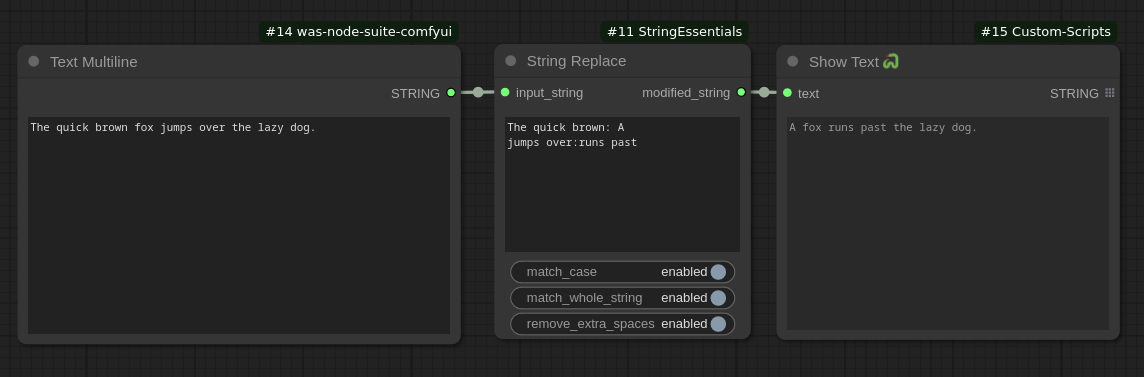
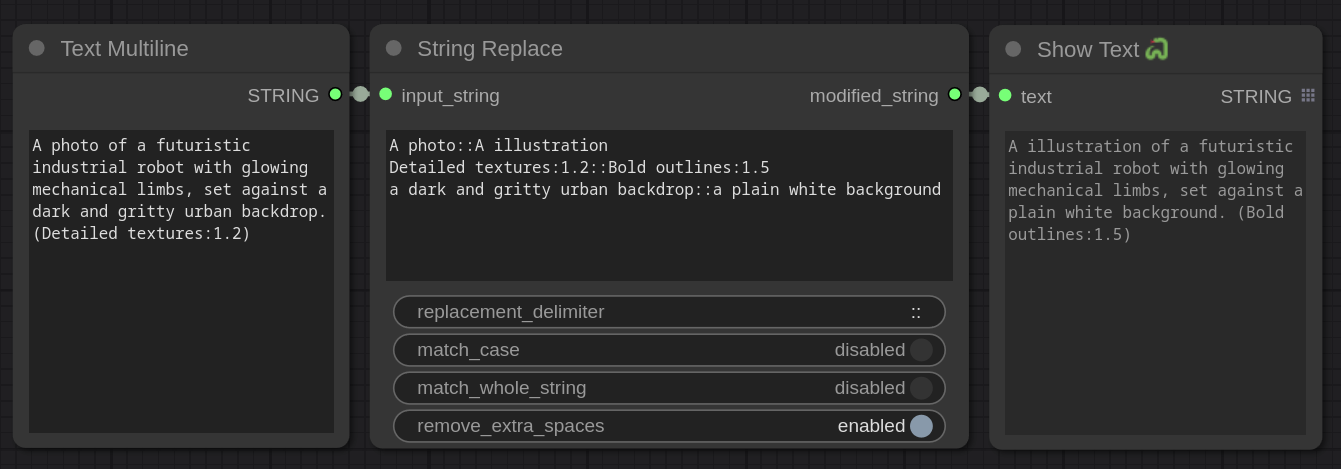
Minor updates including a custom replacement_delimiter

diff --git a/string_replace_node.py b/string_replace_node.py
@@ -6,10 +6,12 @@ class StringReplaceNode:
         return {
             "required": {
                 "replacement_pairs": ("STRING", {"multiline": True, "default": "",
-                    "tooltip": "Enter replacement pairs, one per line, in format 'search:replace'. Example: 'cat:dog' or 'A drawing of:A photo of'"}),
+                    "tooltip": "Enter replacement pairs, one per line. Format: 'search<delimiter>replace'. Default delimiter is ':' (colon)"}),
+                "replacement_delimiter": ("STRING", {"default": "::", 
+                    "tooltip": "Character(s) that separate search and replace strings. Default is two '::' (colons)"}),
                 "match_case": ("BOOLEAN", {"default": False,
                     "label_on": "enabled", "label_off": "disabled"}),
-                "match_whole_string": ("BOOLEAN", {"default": True,
+                "match_whole_string": ("BOOLEAN", {"default": False,
                     "label_on": "enabled", "label_off": "disabled"}),
                 "remove_extra_spaces": ("BOOLEAN", {"default": True,
                     "label_on": "enabled", "label_off": "disabled"})
@@ -21,16 +23,16 @@ class StringReplaceNode:
     FUNCTION = "string_replace"
     CATEGORY = "utils"
 
-    def string_replace(self, input_string, replacement_pairs, match_case, match_whole_string, remove_extra_spaces):
+    def string_replace(self, input_string, replacement_pairs, replacement_delimiter, match_case, match_whole_string, remove_extra_spaces):
         result = input_string
         flags = 0 if match_case else re.IGNORECASE
 
         for line in replacement_pairs.splitlines():
             line = line.strip()
-            if not line or ':' not in line:
+            if not line or replacement_delimiter not in line:
                 continue
 
-            search_str, replace_str = line.split(':', 1)
+            search_str, replace_str = line.split(replacement_delimiter, 1)
             search_str = search_str.strip()
             replace_str = replace_str.strip()
 
@@ -46,9 +48,7 @@ class StringReplaceNode:
             result = re.sub(pattern, replace_str, result, flags=flags)
 
         if remove_extra_spaces:
-            # Replace multiple spaces with single space
             result = re.sub(r'\s+', ' ', result)
-        
-        # Strip leading and trailing spaces
-        result = result.strip()
+            result = result.strip()
+            
         return (result,)

diff --git a/README.md b/README.md
@@ -2,8 +2,6 @@
 
 Custom nodes for ComfyUI that provide text/string manipulation capabilities. Particularly useful for modifying text from LLM outputs (Ollama, Claude.ai, OpenAI ChatGPT), such as prompts or image-to-text description results.
 
-![stringstrip](stringstrip.png)![stringreplace](stringreplace.png)
-
 ## Features
 - Remove or replace text, words, numbers in input strings
 - Handle multi-word strings (partial sentences/phrases)
@@ -11,7 +9,9 @@ Custom nodes for ComfyUI that provide text/string manipulation capabilities. Par
 - Whole string matching option
 
 ## String Strip Node
-Removes specified strings from input text. Each line should contain the string to be searched. The string can contain multiple words. To match individual words/strings place on seperate lines.
+Removes specified strings from input text. Each line should contain the string to be searched. The string can contain multiple words. To match individual words/strings place on seperate lines.  
+![stringstrip](stringstrip.png)
+
 
 ### Inputs
 - **`input_string`**: The string or text to process
@@ -24,11 +24,13 @@ Removes specified strings from input text. Each line should contain the string t
 ![examplestrip](examplestrip.png)
 
 ## String Replace Node
-Replaces text strings with new strings. Each line should contain a search and replace pair separated by a colon `:` See example image below.
+Replaces text strings with new strings. Each line should contain a search and replace pair separated replace_delimiter. See example image below.  
+![stringreplace](stringreplace.png)
 
 ### Inputs
 - **`input_string`**: The string or text to process
 - **`replacement_pairs`**: List of search:replace pairs (one per line)
+- **`replacement_delimiter`**: Character(s) that separate search and replace strings. Default is a double colon `::`
 - **`match_case`**: Enable/disable case-sensitive matching
 - **`match_whole_string`**: Ensure only exact matches are replaced
 - **`remove_extra_spaces`**: Clean up extra spaces after replacement
